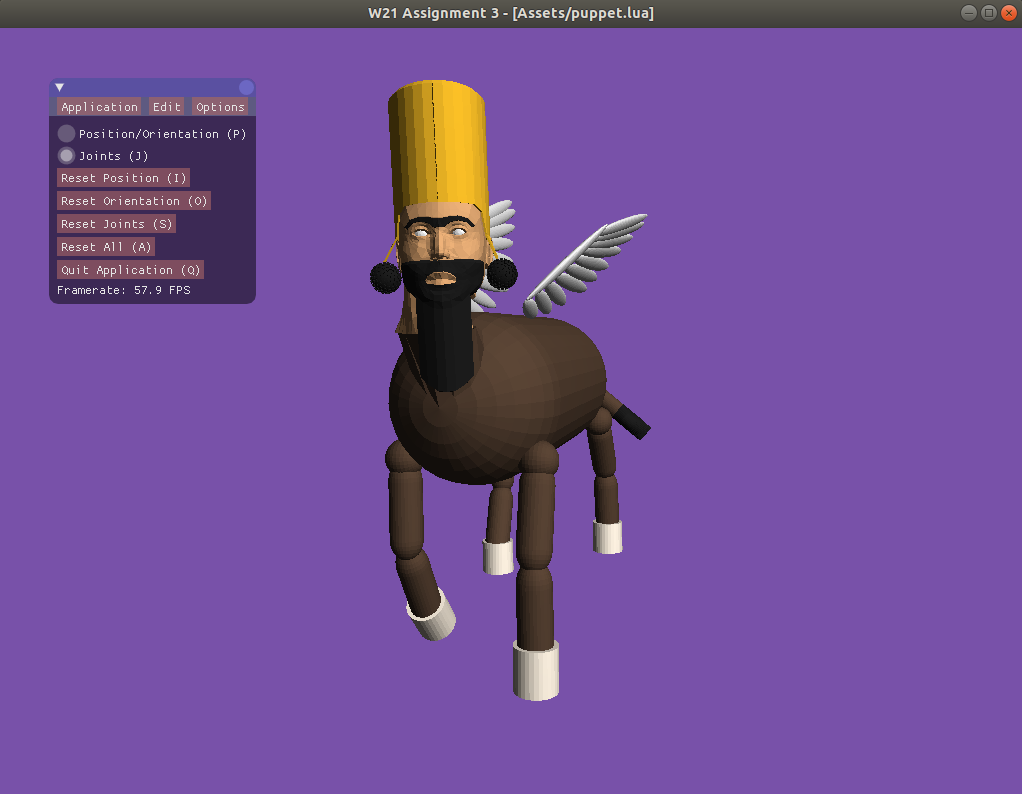
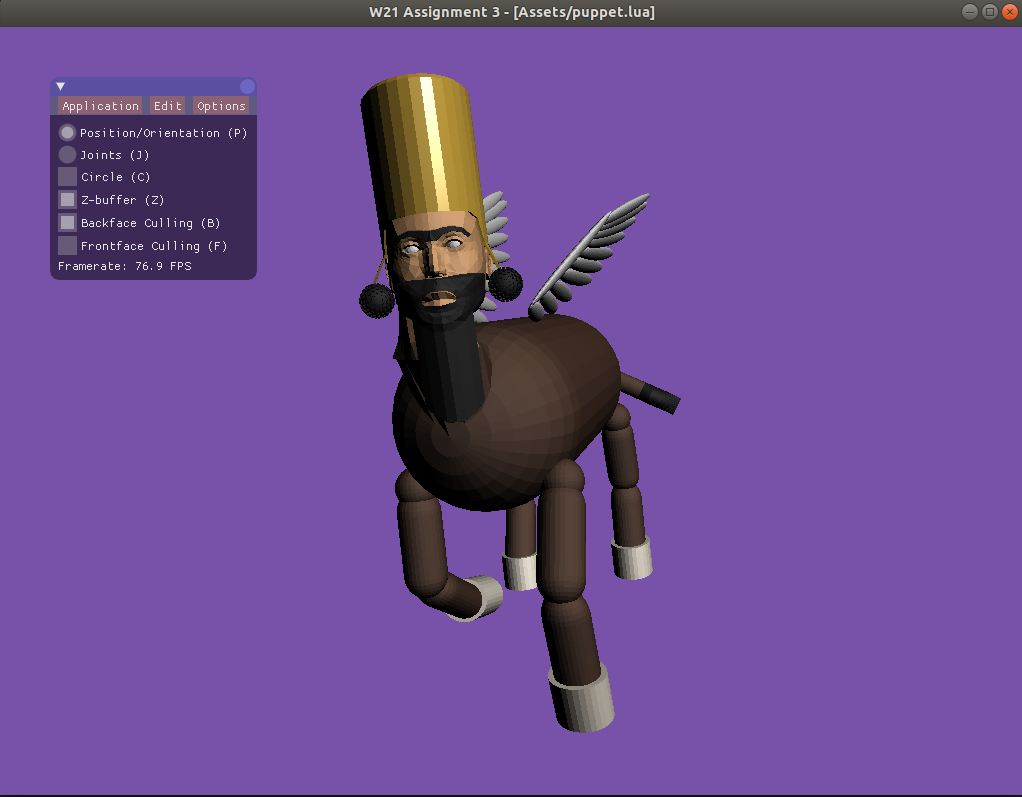
Added phong shading

diff --git a/A3/A3.cpp b/A3/A3.cpp
@@ -179,8 +179,10 @@ void A3::processLuaSceneFile(const std::string & filename) {
 void A3::createShaderProgram()
 {
 	m_shader.generateProgramObject();
-	m_shader.attachVertexShader( getAssetFilePath("VertexShader.vs").c_str() );
-	m_shader.attachFragmentShader( getAssetFilePath("FragmentShader.fs").c_str() );
+	// m_shader.attachVertexShader( getAssetFilePath("VertexShader.vs").c_str() );
+	// m_shader.attachFragmentShader( getAssetFilePath("FragmentShader.fs").c_str() );
+	m_shader.attachVertexShader( getAssetFilePath("Phong.vs").c_str() );
+	m_shader.attachFragmentShader( getAssetFilePath("Phong.fs").c_str() );
 	m_shader.link();
 
 	m_shader_arcCircle.generateProgramObject();
@@ -326,7 +328,7 @@ void A3::initViewMatrix() {
 //----------------------------------------------------------------------------------------
 void A3::initLightSources() {
 	// World-space position
-	m_light.position = vec3(10.0f, 10.0f, 10.0f);
+	m_light.position = vec3(5.0f, 5.0f, 5.0f);
 	m_light.rgbIntensity = vec3(1.0f); // light
 }
 
@@ -355,10 +357,11 @@ void A3::uploadCommonSceneUniforms() {
 
 			//-- Set background light ambient intensity
 			//{
-			location = m_shader.getUniformLocation("ambientIntensity");
-			vec3 ambientIntensity(0.25f);
-			glUniform3fv(location, 1, value_ptr(ambientIntensity));
-			CHECK_GL_ERRORS;
+			// location = m_shader.getUniformLocation("ambientIntensity");
+			// // vec3 ambientIntensity(0.25f);
+			// vec3 ambientIntensity(0.25f, 0.2245f, 0.0645f);
+			// glUniform3fv(location, 1, value_ptr(ambientIntensity));
+			// CHECK_GL_ERRORS;
 			//}
 		}
 	}
@@ -648,6 +651,21 @@ static void updateShaderUniforms(
 				const GeometryNode *geometryNode = static_cast<const GeometryNode *>(&node);
 				vec3 kd = geometryNode->material.kd;
 				glUniform3fv(location, 1, value_ptr(kd));
+				CHECK_GL_ERRORS;
+
+				location = shader.getUniformLocation("material.ks");
+				vec3 ks = geometryNode->material.ks;
+				glUniform3fv(location, 1, value_ptr(ks));
+				CHECK_GL_ERRORS;
+
+				location = shader.getUniformLocation("material.ambientIntensity");
+				vec3 ambientIntensity = geometryNode->material.ambientIntensity;
+				glUniform3fv(location, 1, value_ptr(ambientIntensity));
+				CHECK_GL_ERRORS;
+
+				location = shader.getUniformLocation("material.shininess");
+				float shininess = geometryNode->material.shininess;
+				glUniform1f(location, shininess);
 				CHECK_GL_ERRORS;
 			}	
 		}

diff --git a/A3/scene_lua.cpp b/A3/scene_lua.cpp
@@ -182,22 +182,29 @@ int gr_material_cmd(lua_State* L)
 
   luaL_argcheck(L, luaL_len(L, 2) == 3, 2, "Three-tuple expected");
 
-  luaL_checktype(L, 3, LUA_TNUMBER);
+  luaL_checktype(L, 3, LUA_TTABLE);
 
-  double kd[3], ks[3];
+  luaL_argcheck(L, luaL_len(L, 3) == 3, 3, "Three-tuple expected");
+
+  luaL_checktype(L, 4, LUA_TNUMBER);
+
+  double kd[3], ks[3], ambientIntensity[3];
   for (int i = 1; i <= 3; i++) {
     lua_rawgeti(L, 1, i);
     kd[i - 1] = luaL_checknumber(L, -1);
     lua_rawgeti(L, 2, i);
     ks[i - 1] = luaL_checknumber(L, -1);
-    lua_pop(L, 2);
+    lua_rawgeti(L, 3, i);
+    ambientIntensity[i - 1] = luaL_checknumber(L, -1);
+    lua_pop(L, 3);
   }
-  double shininess = luaL_checknumber(L, 3);
+  double shininess = luaL_checknumber(L, 4);
 
 	data->material = new Material();
 	for(int i(0); i < 3; ++i) {
 		data->material->kd[i] = kd[i];
 		data->material->ks[i] = ks[i];
+    data->material->ambientIntensity[i] = ambientIntensity[i];
 	}
 	data->material->shininess = shininess;
 

diff --git a/A3/Material.hpp b/A3/Material.hpp
@@ -10,7 +10,8 @@ struct Material {
 	Material()
 			: kd(glm::vec3(0.0f)),
 			  ks(glm::vec3(0.0f)),
-			  shininess(0.0f) { }
+			  shininess(0.0f),
+			  ambientIntensity(glm::vec3(0.0f)) { }
 
 	// Diffuse reflection coefficient
 	glm::vec3 kd;
@@ -21,4 +22,6 @@ struct Material {
 	// Material shininess constant.  Larger positive values model surfaces that
 	// are smoother or mirror-like.  Smaller positive values model rougher surfaces.
 	float shininess;
+
+	glm::vec3 ambientIntensity;
 };

diff --git a/A3/README.md b/A3/README.md
@@ -2,6 +2,12 @@
 
 Run this program with ./Assets/puppet.lua. I tested this on the VBox VM. I used c++17 instead of 14.
 
+I used Phong shading, and implemented ambient intensity into the Material class. This means that, to get a3mark.lua working, you just need to add a third vec3 to the materials, like so:
+
+red = gr.material({1.0, 0.0, 0.0}, {0.1, 0.1, 0.1}, {0.1, 0.1, 0.1}, 10)
+
+Note the third {0.1, 0.1, 0.1}
+
 # Manual/Assumptions
 
 I changed the background colour to purple.
@@ -33,6 +39,8 @@ The model I used is (a simplified) "Lamassu". I'm of Iraqi origin and I wanted t
 I changed SceneNode to include custom rotate functions that do not rely on a character axis (also a rotate function for the view). I also gave it "local" transformation data. I also implemented most of selection in SceneNode - the selection map comes from there, and so does the function to convert node ID to RGB. I finally also gave it initial transformation data for reset to work properly.
 
 For picking, I changed up scene_lua.cpp and GeometryNode to include the original material of the geometry node so I can switch back to it when the node is deselected. I also added z_axis joint rotation support to the scene_lua.cpp and hpp files.
+
+I changed up the Material class to have ambientIntensity.
 
 I added a custom joint_rotate() function to Joint Node, and I also created the JointRotationCommand class in JointNode's files for undoing and redoing joint node rotations.
 
